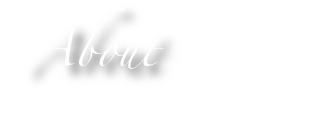
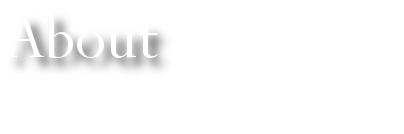
layout changes

Changed region(s): [[0.0298, 0.1493, 0.506, 0.597], [0.3571, 0.0896, 0.4167, 0.1791], [0.0893, 0.5373, 0.1488, 0.5672]]

diff --git a/web/css/main.css b/web/css/main.css
@@ -7,7 +7,8 @@ Leuchtblau* #26b3f7 #f78c26
 Hellstahlblau #2e7db2 #b26e2e */
 
 body {
-  font-size: 75%;
+  font-size: 0.8em;
+  font-family: Georgia,serif;
   background-color: #202020;
 }
 
@@ -28,11 +29,12 @@ div#site {
 div#header {
   background-color: #690102;
   border-bottom: 1px solid #3a0101;
-  height: 10em;
+  height: 6em;
   background-image: url('../images/PapPalHand.png');
   background-repeat: no-repeat;
   background-position: center top;
   padding: 1em;
+  font-size: 1em;
 }
 
 div#header a, div#header a:hover,
@@ -49,11 +51,26 @@ div#content {
 
 div#footer {
   background-color: #690102;
+  background-image: url('../images/mtk.png');
+  background-repeat: no-repeat;
+  background-position: right;
   position: absolute;
   bottom: 0;
   width: 100%;
-  height: 5em;
+  height: 76px;
   border-top: 0.1em solid #3a0101;
+  font-family: Verdana,Helvetica,sans-serif;
+  font-size: 0.9em;
+}
+
+div#footer p{
+  padding: 1em 0 0 4em;
+}
+
+div#footer span:first-child{
+  font-variant: small-caps;
+  font-weight: bold;
+  font-size: larger;
 }
 
 /* global element styling */
@@ -74,6 +91,10 @@ h3 a {
 }
 
 p {
+  padding: 0 0 0.2em 0;
+}
+
+div.home p {
   padding: 1em;
 }
 
@@ -139,26 +160,7 @@ div.page {
   margin: auto;
   background-position: top left;
   background-repeat: no-repeat;
-  padding-top: 10em;
-}
-
-div.home {
-  padding: 0;
-}
-
-div.about {
-  background-image: url('../images/PageAbout.png');
-  
-}
-
-div.browsingTips {
-  background-image: url('../images/PageBrowsingTips.png');
-  
-}
-
-div.contact {
-  background-image: url('../images/PageContact.png');
-  
+  padding-top: 2em;
 }
 
 /* SAMPLE LIST */
@@ -293,6 +295,11 @@ div#header span, a.pageLinkTop {
   float: right;
 }
 
+div#header a:last-child {
+  padding: 1.2em 6em 0 0;
+  font-size: larger;
+}
+
 /* SAMPLE FILTER */
 
 form#filter fieldset {
@@ -316,13 +323,6 @@ form#filter label{
   width: 10em;
 }
 
-form#filter label.notBefore,
-form#filter label.notAfter,
-form#filter label.ddb{
-  text-align: right;
-}
-
-
 form#filter input{
   padding: 0;
 }
@@ -337,12 +337,23 @@ form#filter input#form_provenance{
   width: 30em;
 }
 
+form#filter label.material{
+  padding: 0 0 0 5em;
+  text-align: right;
+}
+
 form#filter input#form_dateWhen,
 form#filter input#form_dateNotBefore,
 form#filter input#form_dateNotAfter,
 form#filter input#form_hgv,
 form#filter input#form_ddb{
   width: 4em;
+}
+
+form#filter label.notBefore,
+form#filter label.notAfter,
+form#filter label.ddb{
+  text-align: right;
 }
 
 form#filter button#reset,
